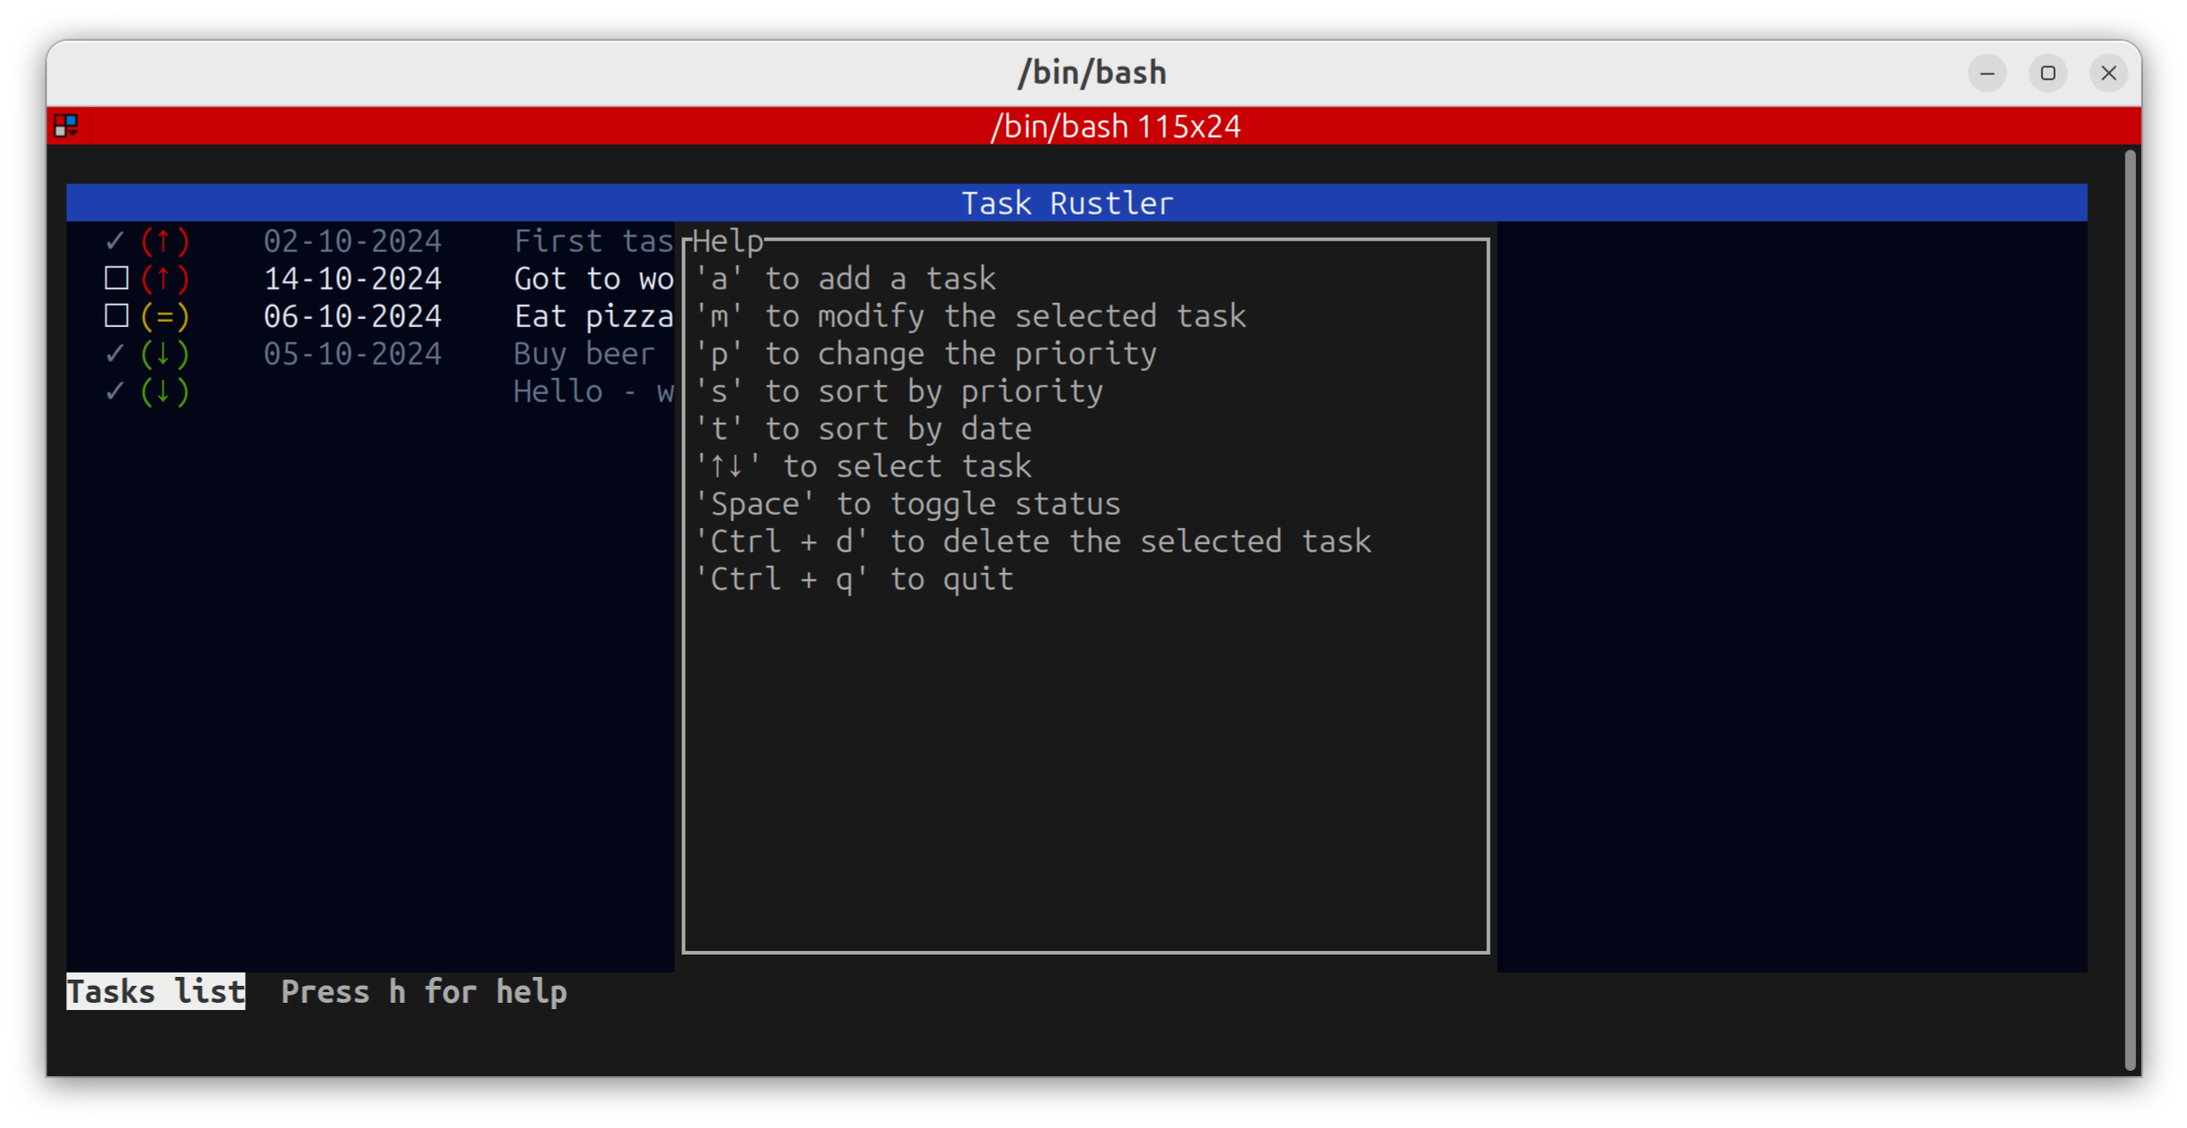
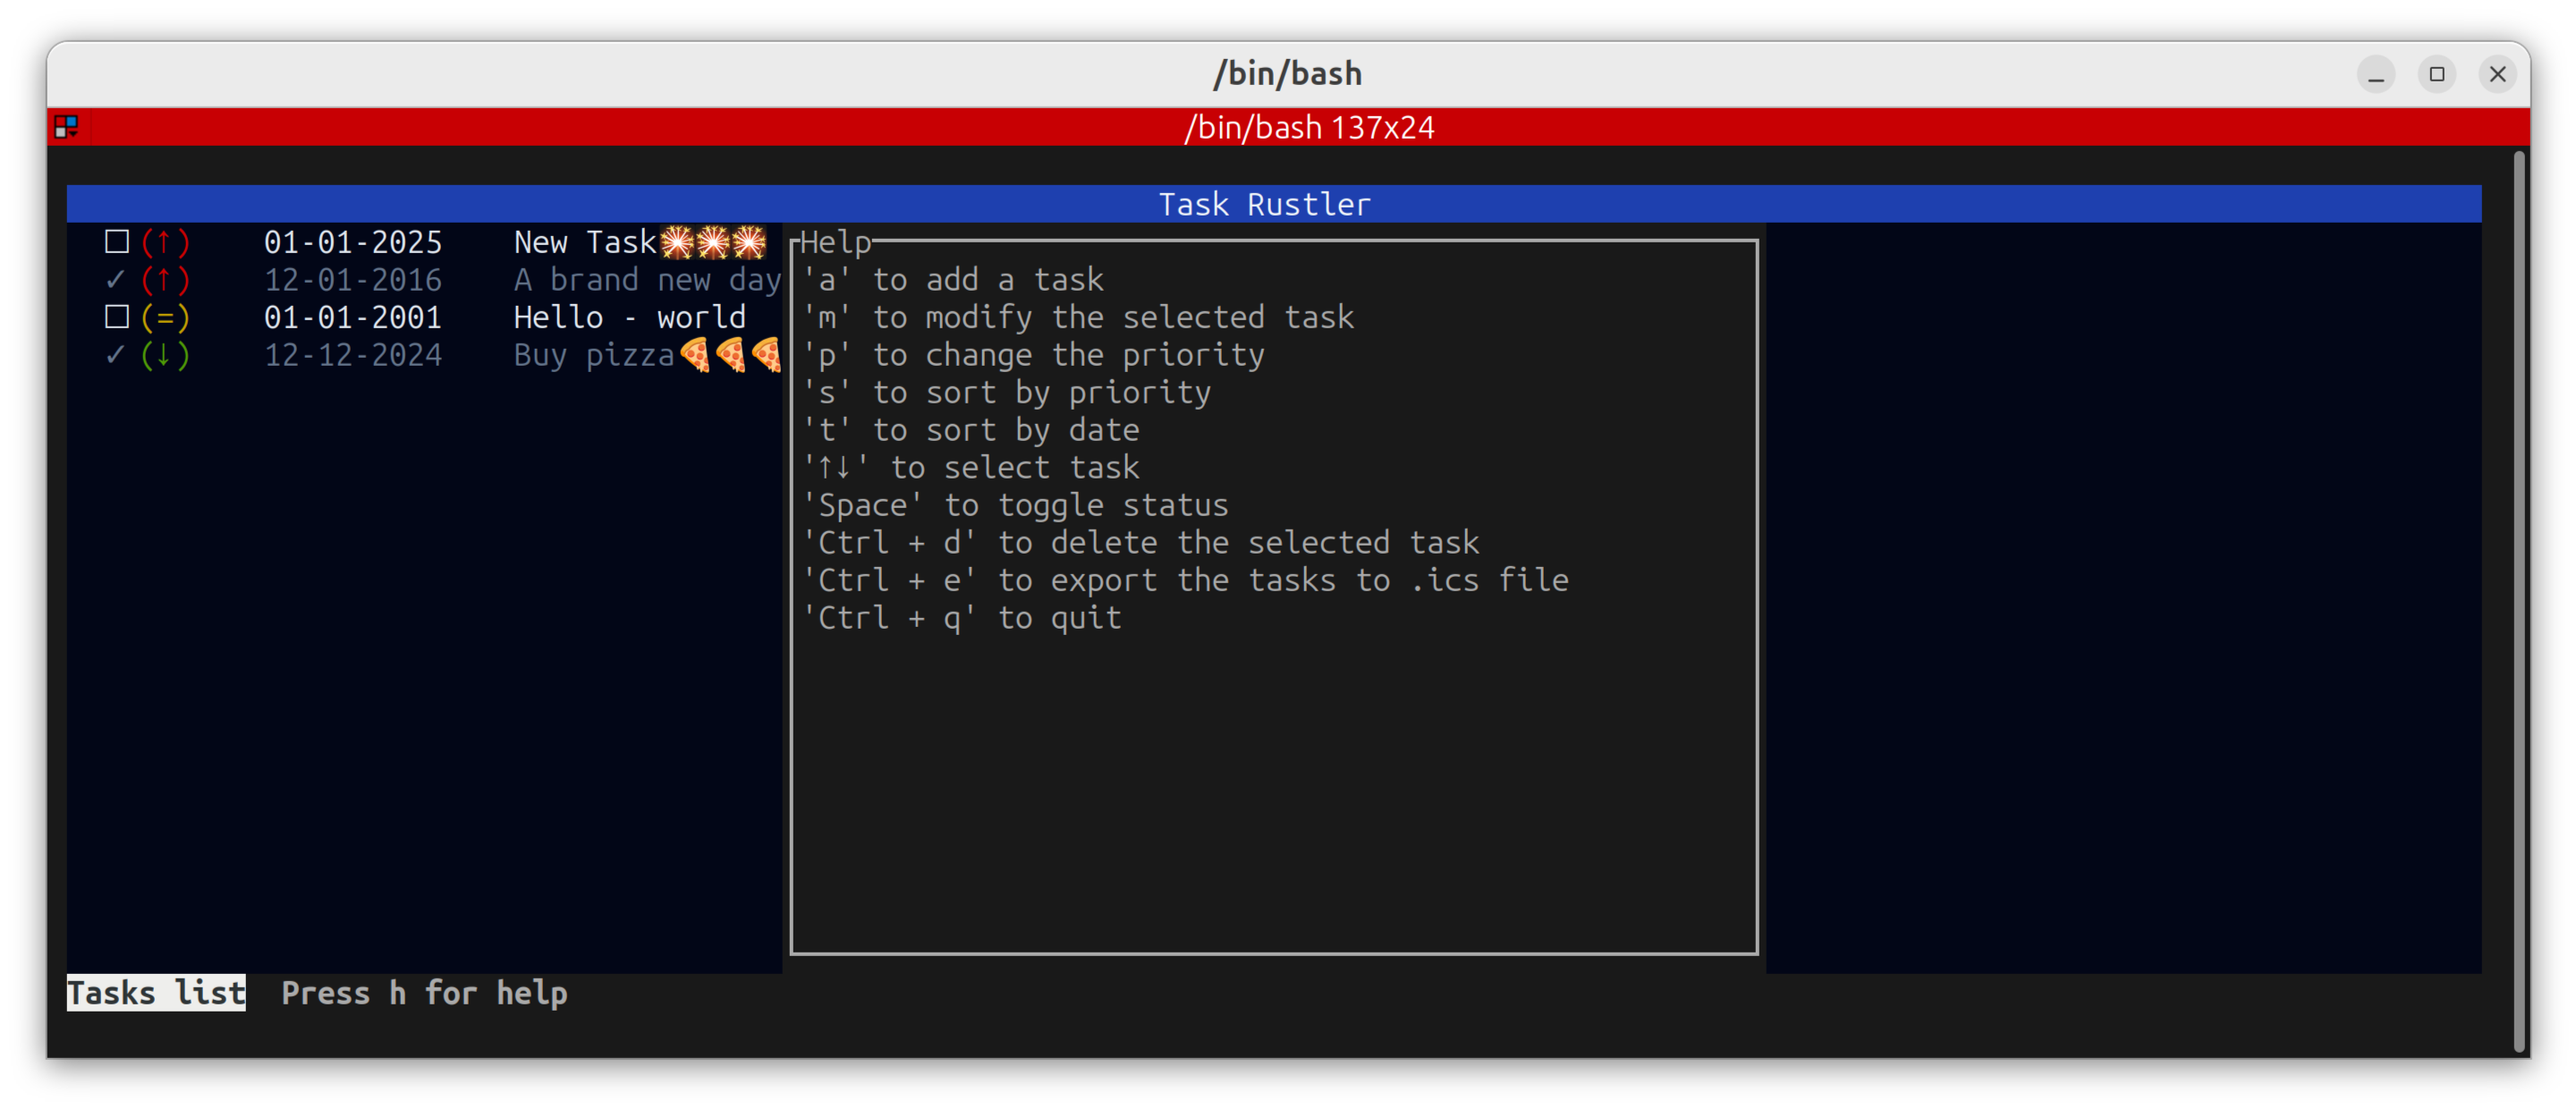
Icalendar integration (#21)
* Adds "export_tasks_to_icalendar" function
* Makes priorities compliant to rfc5545, 1 is highest 3 is lowest
* Adds new InputMode::Export
* Adds input area for the path to export a file
* Adds commands and key handlers to export the tasks to .ics file
* Updates and improves the documentation
* binary executable changed to "taskrs"

Changed region(s): [[0.0, 0.0306, 0.9943, 0.95], [0.5904, 0.521, 0.6214, 0.5516]]

diff --git a/src/ui.rs b/src/ui.rs
@@ -56,7 +56,23 @@ pub fn ui(f: &mut Frame, app: &mut AppContext) {
             render_input_date_area(f, app, input_date_area);
             render_message_area(f, app, message_area);
         }
+        InputMode::Export => {
+            let [main_area, input_area, message_area] = Layout::vertical([
+                Constraint::Min(1),
+                Constraint::Length(3),
+                Constraint::Length(1),
+            ])
+                .margin(1)
+                .areas(f.area());
+            let x = input_area.x + app.input_export_path.len() as u16 +1;
+            let y = input_area.y + 1;
+            f.set_cursor_position(Position::new(x, y));
+            render_list(f, app, main_area);
+            render_input_path_area(f, app, input_area);
+            render_message_area(f, app, message_area);
+        }
     }
+
     if app.show_help {
         let block = Block::bordered().title("Help");
         let area = render_popup(f.area(), 40, 80);
@@ -77,6 +93,7 @@ pub fn ui(f: &mut Frame, app: &mut AppContext) {
             Line::raw("'↑↓' to select task"),
             Line::raw("'Space' to toggle status"),
             Line::raw("'Ctrl + d' to delete the selected task"),
+            Line::raw("'Ctrl + e' to export the tasks to .ics file"),
             Line::raw("'Ctrl + q' to quit"),
         ]);
         f.render_widget(t1, popup_chunks[0]);
@@ -123,6 +140,11 @@ fn render_input_date_area(f: &mut Frame, app: &mut AppContext, area: Rect) {
     f.render_widget(input, area);
 }
 
+fn render_input_path_area(f: &mut Frame, app: &mut AppContext, area: Rect) {
+    let input = create_input_paragraph(app, app.input_export_path.as_str(), "File path");
+    f.render_widget(input, area);
+}
+
 fn render_message_area(f: &mut Frame, app: &mut AppContext, area: Rect) {
     let (msg, style) = match app.input_mode {
         InputMode::View => (
@@ -164,6 +186,26 @@ fn render_message_area(f: &mut Frame, app: &mut AppContext, area: Rect) {
                     Span::styled("Enter", Style::default().add_modifier(Modifier::BOLD)),
                     Span::raw(" to save changes"),
                 ]
+            } else {
+                vec![Span::styled("Error", Style::default().bg(Color::White).fg(Color::Black)),
+                     Span::raw(" "),
+                     Span::styled(
+                         app.error.clone().unwrap_or(String::new()),
+                         Style::default().red(),
+                     )]
+            },
+            Style::default(),
+        ),
+        InputMode::Export => (
+            if app.error.is_none() {
+                vec![
+                Span::styled("Export tasks list", Style::default().bg(Color::White).fg(Color::Black)),
+                Span::raw("  Press "),
+                Span::styled("Esc", Style::default().add_modifier(Modifier::BOLD)),
+                Span::raw(" to cancel, "),
+                Span::styled("Enter", Style::default().add_modifier(Modifier::BOLD)),
+                Span::raw(" to save file"),
+                    ]
             } else {
                 vec![Span::styled("Error", Style::default().bg(Color::White).fg(Color::Black)),
                      Span::raw(" "),
@@ -252,7 +294,7 @@ fn priority_to_color(priority: &Priority) -> Color {
 fn create_input_paragraph<'a>(app: &'a AppContext, text: &'a str, title: &'a str) -> Paragraph<'a> {
     Paragraph::new(text)
         .style(match app.input_mode {
-            InputMode::View => Style::default(),
+            InputMode::View | InputMode::Export => Style::default(),
             InputMode::Adding => Style::default().fg(Color::Green),
             InputMode::EditingExisting => Style::default().fg(Color::Yellow),
         })

diff --git a/tests/exporters_test.rs b/tests/exporters_test.rs
@@ -1,0 +1,47 @@
+#[cfg(test)]
+mod test {
+    use chrono::NaiveDate;
+    use task_rustler::date::{TaskDate, DATE_FORMAT};
+    use task_rustler::task::{Priority, Task};
+    use task_rustler::export::export_tasks_to_icalendar;
+    use icalendar::{Component, DatePerhapsTime, TodoStatus};
+
+    #[test]
+    fn tasks_to_icalendar(){
+        let task1 = Task{
+            id: 0,
+            title: "First task".to_string(),
+            description: "Task n 1".to_string(),
+            completed: false,
+            priority: Priority::Low,
+            date: TaskDate(Some(NaiveDate::parse_from_str("15-10-2024", DATE_FORMAT).unwrap()))
+        };
+
+        let task2 = Task{
+            id: 1,
+            title: "Second task".to_string(),
+            description: "Task n 2".to_string(),
+            completed: true,
+            priority: Priority::High,
+            date: TaskDate(None)
+        };
+
+        let tasks = vec![task1, task2];
+        let calendar = export_tasks_to_icalendar("Task Rustler", &tasks );
+        assert_eq!(calendar.get_name().unwrap(), "Task Rustler");
+
+        let todo1 = calendar.components[0].as_todo().unwrap();
+        assert_eq!(todo1.get_summary().unwrap(), "First task");
+        assert_eq!(todo1.get_description().unwrap(), "Task n 1");
+        assert_eq!(todo1.get_priority().unwrap(), 3);
+        assert_eq!(todo1.get_end().unwrap(), DatePerhapsTime::Date(NaiveDate::parse_from_str("15-10-2024", DATE_FORMAT).unwrap()));
+        assert_eq!(todo1.get_status().unwrap(), TodoStatus::NeedsAction);
+
+        let todo2 = calendar.components[1].as_todo().unwrap();
+        assert_eq!(todo2.get_summary().unwrap(), "Second task");
+        assert_eq!(todo2.get_description().unwrap(), "Task n 2");
+        assert_eq!(todo2.get_priority().unwrap(), 1);
+        assert_eq!(todo2.get_end(), None);
+        assert_eq!(todo2.get_status().unwrap(), TodoStatus::Completed);
+    }
+}

diff --git a/src/main.rs b/src/main.rs
@@ -48,9 +48,8 @@ fn run_app<B: ratatui::backend::Backend>(
                     _ => handle_key_event_view_mode(key, &mut app),
                 },
                 InputMode::Adding => handle_key_event_adding_mode(key.code, &mut app),
-                InputMode::EditingExisting => {
-                    handle_key_event_editing_existing_mode(key.code, &mut app)
-                }
+                InputMode::EditingExisting => handle_key_event_editing_existing_mode(key.code, &mut app),
+                InputMode::Export => handle_key_event_export_mode(key.code, &mut app),
             }
         }
     }
@@ -84,6 +83,9 @@ fn handle_key_event_view_mode(key: KeyEvent, app: &mut AppContext) {
         }
         (KeyCode::Char('d'), KeyModifiers::CONTROL) => {
             let _ = DeleteTaskCommand.execute(app);
+        }
+        (KeyCode::Char('e'), KeyModifiers::CONTROL) => {
+            handle_errors(EnterExportModeCommand, app);
         }
         _ => {}
     }
@@ -122,6 +124,25 @@ fn handle_key_event_editing_existing_mode(key: KeyCode, app: &mut AppContext) {
             let _ = StopEditingCommand.execute(app);
         }
         _ => {}
+    }
+}
+
+fn handle_key_event_export_mode(key: KeyCode, app: &mut AppContext) {
+    match key {
+        KeyCode::Esc => ExitExportModeCommand.execute(app).unwrap(),
+        KeyCode::Enter => {
+            handle_errors(FinishingExportCommand, app);
+            if app.error.is_none() {
+                app.input_mode = InputMode::View;
+            }
+        }
+        KeyCode::Char(c) => {
+            app.input_export_path.push(c);
+        }
+        KeyCode::Backspace => {
+            app.input_export_path.pop();
+        }
+        _=>{}
     }
 }
 

diff --git a/src/command.rs b/src/command.rs
@@ -1,7 +1,9 @@
+use std::env;
 use crate::app::{AppContext, InputFieldType, InputMode};
 use crate::date::{TaskDate, DATE_FORMAT};
 use crate::task::Task;
 use anyhow::{anyhow, Context, Result};
+use crate::export::{export_tasks_to_icalendar, write_to_file};
 
 pub trait Command {
     fn execute(&self, app: &mut AppContext) -> Result<()>;
@@ -141,6 +143,36 @@ impl Command for StopEditingCommand {
         app.input_title.clear();
         app.input_description.clear();
         app.input_date.clear();
+        app.error = None;
+        Ok(())
+    }
+}
+
+pub struct EnterExportModeCommand;
+impl Command for EnterExportModeCommand {
+    fn execute(&self, app: &mut AppContext) -> Result<()> {
+        app.input_mode = InputMode::Export;
+        app.error = None;
+        let mut current_dir = env::current_dir().context("Could not access to the current directory")?;
+        current_dir.set_file_name("task_rustler.ics");
+        app.input_export_path = current_dir.display().to_string();
+        Ok(())
+    }
+}
+
+pub struct FinishingExportCommand;
+impl Command for FinishingExportCommand {
+    fn execute(&self, app: &mut AppContext) -> Result<()> {
+        let calendar = export_tasks_to_icalendar("task rustler", &app.task_list.items);
+        write_to_file(app.input_export_path.as_str(), calendar.to_string().as_str())
+    }
+}
+
+pub struct ExitExportModeCommand;
+impl Command for ExitExportModeCommand {
+    fn execute(&self, app: &mut AppContext) -> Result<()> {
+        app.input_mode = InputMode::View;
+        app.input_export_path.clear();
         app.error = None;
         Ok(())
     }

diff --git a/src/task_db.rs b/src/task_db.rs
@@ -52,7 +52,7 @@ impl DB {
                 params![
                     task.title.trim(),
                     task.description.trim(),
-                    task.priority.to_usize(),
+                    task.priority.to_u8(),
                     task.date,
                 ],
             )
@@ -87,7 +87,7 @@ impl DB {
     pub fn get_all_task_by_highest_priority(&self) -> Vec<Task> {
         let mut stmt = self
             .connection
-            .prepare("SELECT id, title, description, completed, priority, end_date FROM tasks order by priority desc")
+            .prepare("SELECT id, title, description, completed, priority, end_date FROM tasks order by priority asc")
             .unwrap();
         let task_row_iter = stmt
             .query_map([], |row| Task::try_from(row))
@@ -103,7 +103,7 @@ impl DB {
     pub fn get_all_task_by_lowest_priority(&self) -> Vec<Task> {
         let mut stmt = self
             .connection
-            .prepare("SELECT id, title, description, completed, priority, end_date FROM tasks order by priority asc")
+            .prepare("SELECT id, title, description, completed, priority, end_date FROM tasks order by priority desc")
             .unwrap();
         let task_row_iter = stmt
             .query_map([], |row| Task::try_from(row))

diff --git a/src/task.rs b/src/task.rs
@@ -3,9 +3,9 @@ use std::fmt::{Display, Formatter};
 
 #[derive(Debug, Clone, Eq, PartialEq, Ord, PartialOrd)]
 pub enum Priority {
-    Low,
-    Medium,
-    High,
+    Low = 3 ,
+    Medium = 2,
+    High = 1,
 }
 
 impl Priority {
@@ -19,18 +19,18 @@ impl Priority {
 
     pub fn from_u8(value: u8) -> Option<Priority> {
         match value {
-            0 => Some(Priority::Low),
-            1 => Some(Priority::Medium),
-            2 => Some(Priority::High),
+            3 => Some(Priority::Low),
+            2 => Some(Priority::Medium),
+            1 => Some(Priority::High),
             _ => None,
         }
     }
 
-    pub fn to_usize(&self) -> usize {
+    pub fn to_u8(&self) -> u8 {
         match self {
-            Priority::Low => 0,
-            Priority::Medium => 1,
-            Priority::High => 2,
+            Priority::Low => 3,
+            Priority::Medium => 2,
+            Priority::High => 1,
         }
     }
 }

diff --git a/src/export/exporters.rs b/src/export/exporters.rs
@@ -1,0 +1,30 @@
+use icalendar::{Calendar, Component, EventLike, Todo, TodoStatus};
+use crate::task::Task;
+
+pub fn export_tasks_to_icalendar(calendar_name: &'static str, tasks: &[Task]) -> Calendar {
+    let mut calendar = Calendar::new();
+    calendar.name(calendar_name);
+    for task in tasks {
+        calendar.push(
+            build_icalendar_todo_task(task)
+        );
+    }
+
+    calendar.done()
+}
+
+fn build_icalendar_todo_task(task: &Task) -> Todo {
+    let mut todo = Todo::new();
+    if let Some(date) = task.date.0{
+        todo.all_day(date);
+    };
+    todo.summary(task.title.as_str());
+    todo.description(task.description.as_str());
+    if task.completed {
+        todo.status(TodoStatus::Completed);
+    } else {
+        todo.status(TodoStatus::NeedsAction);
+    }
+    todo.priority(task.priority.to_u8() as u32);
+    todo.done()
+}

diff --git a/src/app.rs b/src/app.rs
@@ -20,6 +20,7 @@ pub enum InputMode {
     View,
     Adding,
     EditingExisting,
+    Export,
 }
 #[derive(Debug)]
 pub enum InputFieldType {
@@ -33,6 +34,7 @@ pub struct AppContext {
     pub input_title: String,
     pub input_description: String,
     pub input_date: String,
+    pub input_export_path: String,
     pub input_mode: InputMode,
     pub input_field: InputFieldType,
     pub tasks_service: TasksService,
@@ -48,6 +50,7 @@ impl AppContext {
             input_title: String::new(),
             input_description: String::new(),
             input_date: String::new(),
+            input_export_path: String::new(),
             input_mode: InputMode::View,
             input_field: InputFieldType::Title,
             tasks_service: TasksService::new(db_path),

diff --git a/src/export/file_writer.rs b/src/export/file_writer.rs
@@ -1,0 +1,13 @@
+use std::fs::File;
+use std::io::Write;
+use std::path::Path;
+use anyhow::{anyhow, Result};
+
+pub fn write_to_file(path: &str, content: &str) -> Result<()> {
+    let path = Path::new(path);
+    let display = path.display();
+    let mut file =  File::create(&path).map_err(|e| anyhow!("Error creating file {}: {}", display, e))?;
+
+    file.write_all(content.as_bytes()).map_err(|e| anyhow!("Error writing file: {}", e))?;
+    Ok(())
+}

diff --git a/src/export/mod.rs b/src/export/mod.rs
@@ -1,0 +1,5 @@
+mod exporters;
+mod file_writer;
+
+pub use exporters::export_tasks_to_icalendar;
+pub use file_writer::write_to_file;

diff --git a/src/lib.rs b/src/lib.rs
@@ -5,3 +5,4 @@ pub mod task;
 pub mod task_db;
 pub mod task_manager;
 pub mod ui;
+pub mod export;

diff --git a/README.md b/README.md
@@ -1,6 +1,5 @@
 ## Task Rustler 🗒
 
-#### ⚠ Work in progress ⚠
 ### A simple task manager written in Rust
 
 #### Features
@@ -8,8 +7,10 @@
 - Add, modify and remove tasks
 - Mark a task as completed
 - Change task priority, there are three different priorities: High, Medium, Low.
-
-## Task list
+- Sort task by priority or by date
+- Export tasks list to a file in iCalendar format [rfc5545](https://datatracker.ietf.org/doc/html/rfc5545)
+***
+## Tasks list view
 ![main](/pics/task_list.png)
 
 --- 
@@ -24,3 +25,6 @@
 - __s__ sort tasks by priority
 - __t__ sort tasks by date
 - __Ctrl + d__ delete task
+- __Ctrl + e__ export tasks list to .ics file (iCalendar)
+![export tasks list](/pics/export_to_ics.png)
+
